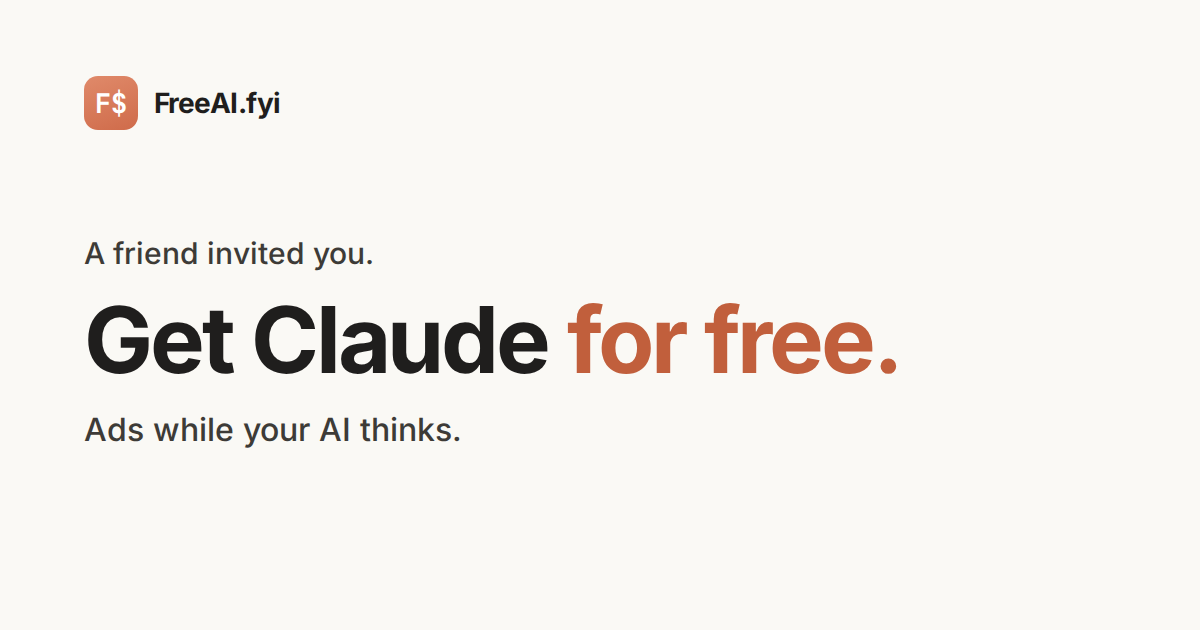
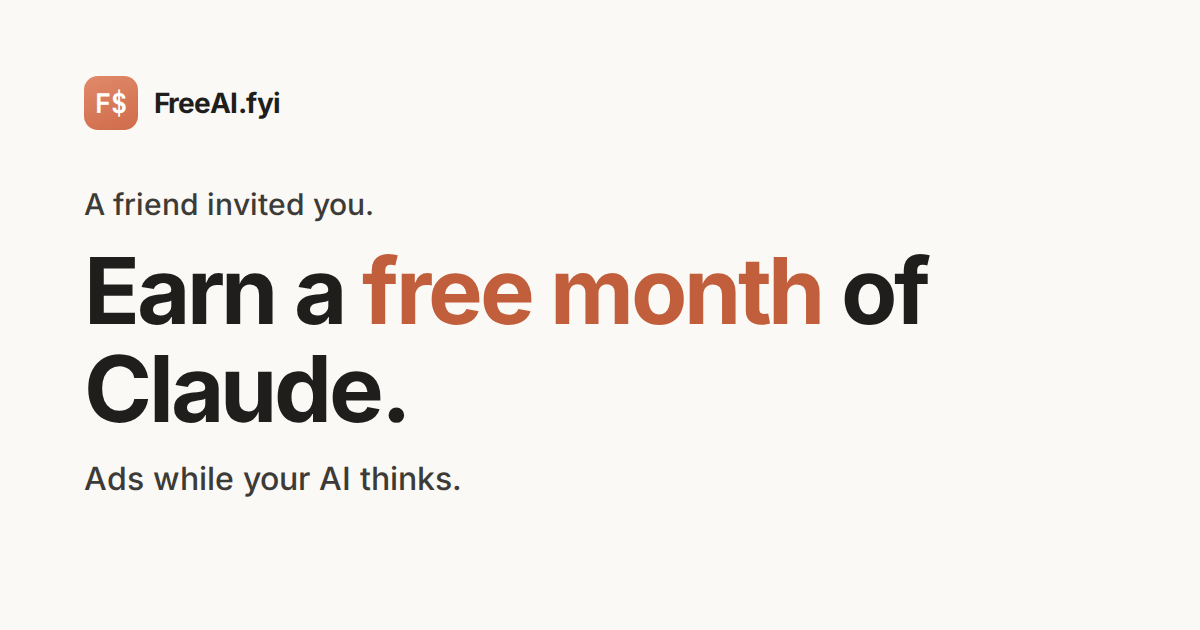
Referral card: "Earn a free month of Claude" instead of the generic pitch
Distinguishes the invite card from the homepage card with copy specific
to referrals, while staying accurate: "earn" (not "get") matches how
credits actually accrue — from ad revenue as you use the AI you already
use — rather than implying an instant referral gift.

Claude-Session: https://claude.ai/code/session_01WzCDFAieZkMu59iQaL3dSm

Changed region(s): [[0.0617, 0.3921, 0.7708, 0.7841], [0.0617, 0.3016, 0.3083, 0.3619]]

diff --git a/web/redeem.html b/web/redeem.html
@@ -21,31 +21,33 @@
 
   <!-- Link previews (OpenGraph + Twitter). This is the page a member's referral
        link (redeem.html?ref=…) points at, and that's how it gets shared — so the
-       preview is the invite card (og-referral.png from tools/gen-og.mjs). No
-       specific reward is promised here (there's no "your first month is free"
-       mechanic — the retired $20 referral bonus paid the referrer, never the
+       preview is the invite card (og-referral.png from tools/gen-og.mjs). Says
+       "earn" rather than "get" — there's no "your first month is free"
+       mechanic (the retired $20 referral bonus paid the referrer, never the
        friend; a referrer now earns a 10% affiliate cut of what their friend
-       earns instead). Crawlers ignore the ?ref query and don't run JS, so the
-       framing lives here in the static head. -->
+       earns instead). "Earn a free month of Claude" stays true to how credits
+       actually accrue — from ad revenue as you use the AI you already use.
+       Crawlers ignore the ?ref query and don't run JS, so the framing lives
+       here in the static head. -->
   <link rel="canonical" href="https://freeai.fyi/redeem" />
   <meta name="theme-color" content="#d97757" />
   <meta property="og:type" content="website" />
   <meta property="og:site_name" content="FreeAI.fyi" />
   <meta property="og:url" content="https://freeai.fyi/redeem" />
   <meta property="og:locale" content="en_US" />
-  <meta property="og:title" content="Get Claude for free" />
+  <meta property="og:title" content="Earn a free month of Claude" />
   <meta property="og:description" content="A friend invited you to FreeAI. Ads run while your AI thinks — the revenue becomes Claude credits." />
-  <meta property="og:image" content="https://freeai.fyi/og-referral.png?v=20260705" />
-  <meta property="og:image:secure_url" content="https://freeai.fyi/og-referral.png?v=20260705" />
+  <meta property="og:image" content="https://freeai.fyi/og-referral.png?v=20260705b" />
+  <meta property="og:image:secure_url" content="https://freeai.fyi/og-referral.png?v=20260705b" />
   <meta property="og:image:type" content="image/png" />
   <meta property="og:image:width" content="1200" />
   <meta property="og:image:height" content="630" />
-  <meta property="og:image:alt" content="A friend invited you — get Claude for free." />
+  <meta property="og:image:alt" content="A friend invited you — earn a free month of Claude." />
   <meta name="twitter:card" content="summary_large_image" />
-  <meta name="twitter:title" content="Get Claude for free" />
+  <meta name="twitter:title" content="Earn a free month of Claude" />
   <meta name="twitter:description" content="A friend invited you to FreeAI. Ads run while your AI thinks — the revenue becomes Claude credits." />
-  <meta name="twitter:image" content="https://freeai.fyi/og-referral.png?v=20260705" />
-  <meta name="twitter:image:alt" content="A friend invited you — get Claude for free." />
+  <meta name="twitter:image" content="https://freeai.fyi/og-referral.png?v=20260705b" />
+  <meta name="twitter:image:alt" content="A friend invited you — earn a free month of Claude." />
   <link rel="preconnect" href="https://fonts.googleapis.com" />
   <link rel="preconnect" href="https://fonts.gstatic.com" crossorigin />
   <link href="https://fonts.googleapis.com/css2?family=Inter:wght@400;500;600;700;800;900&family=JetBrains+Mono:wght@400;500;700&display=swap" rel="stylesheet" />